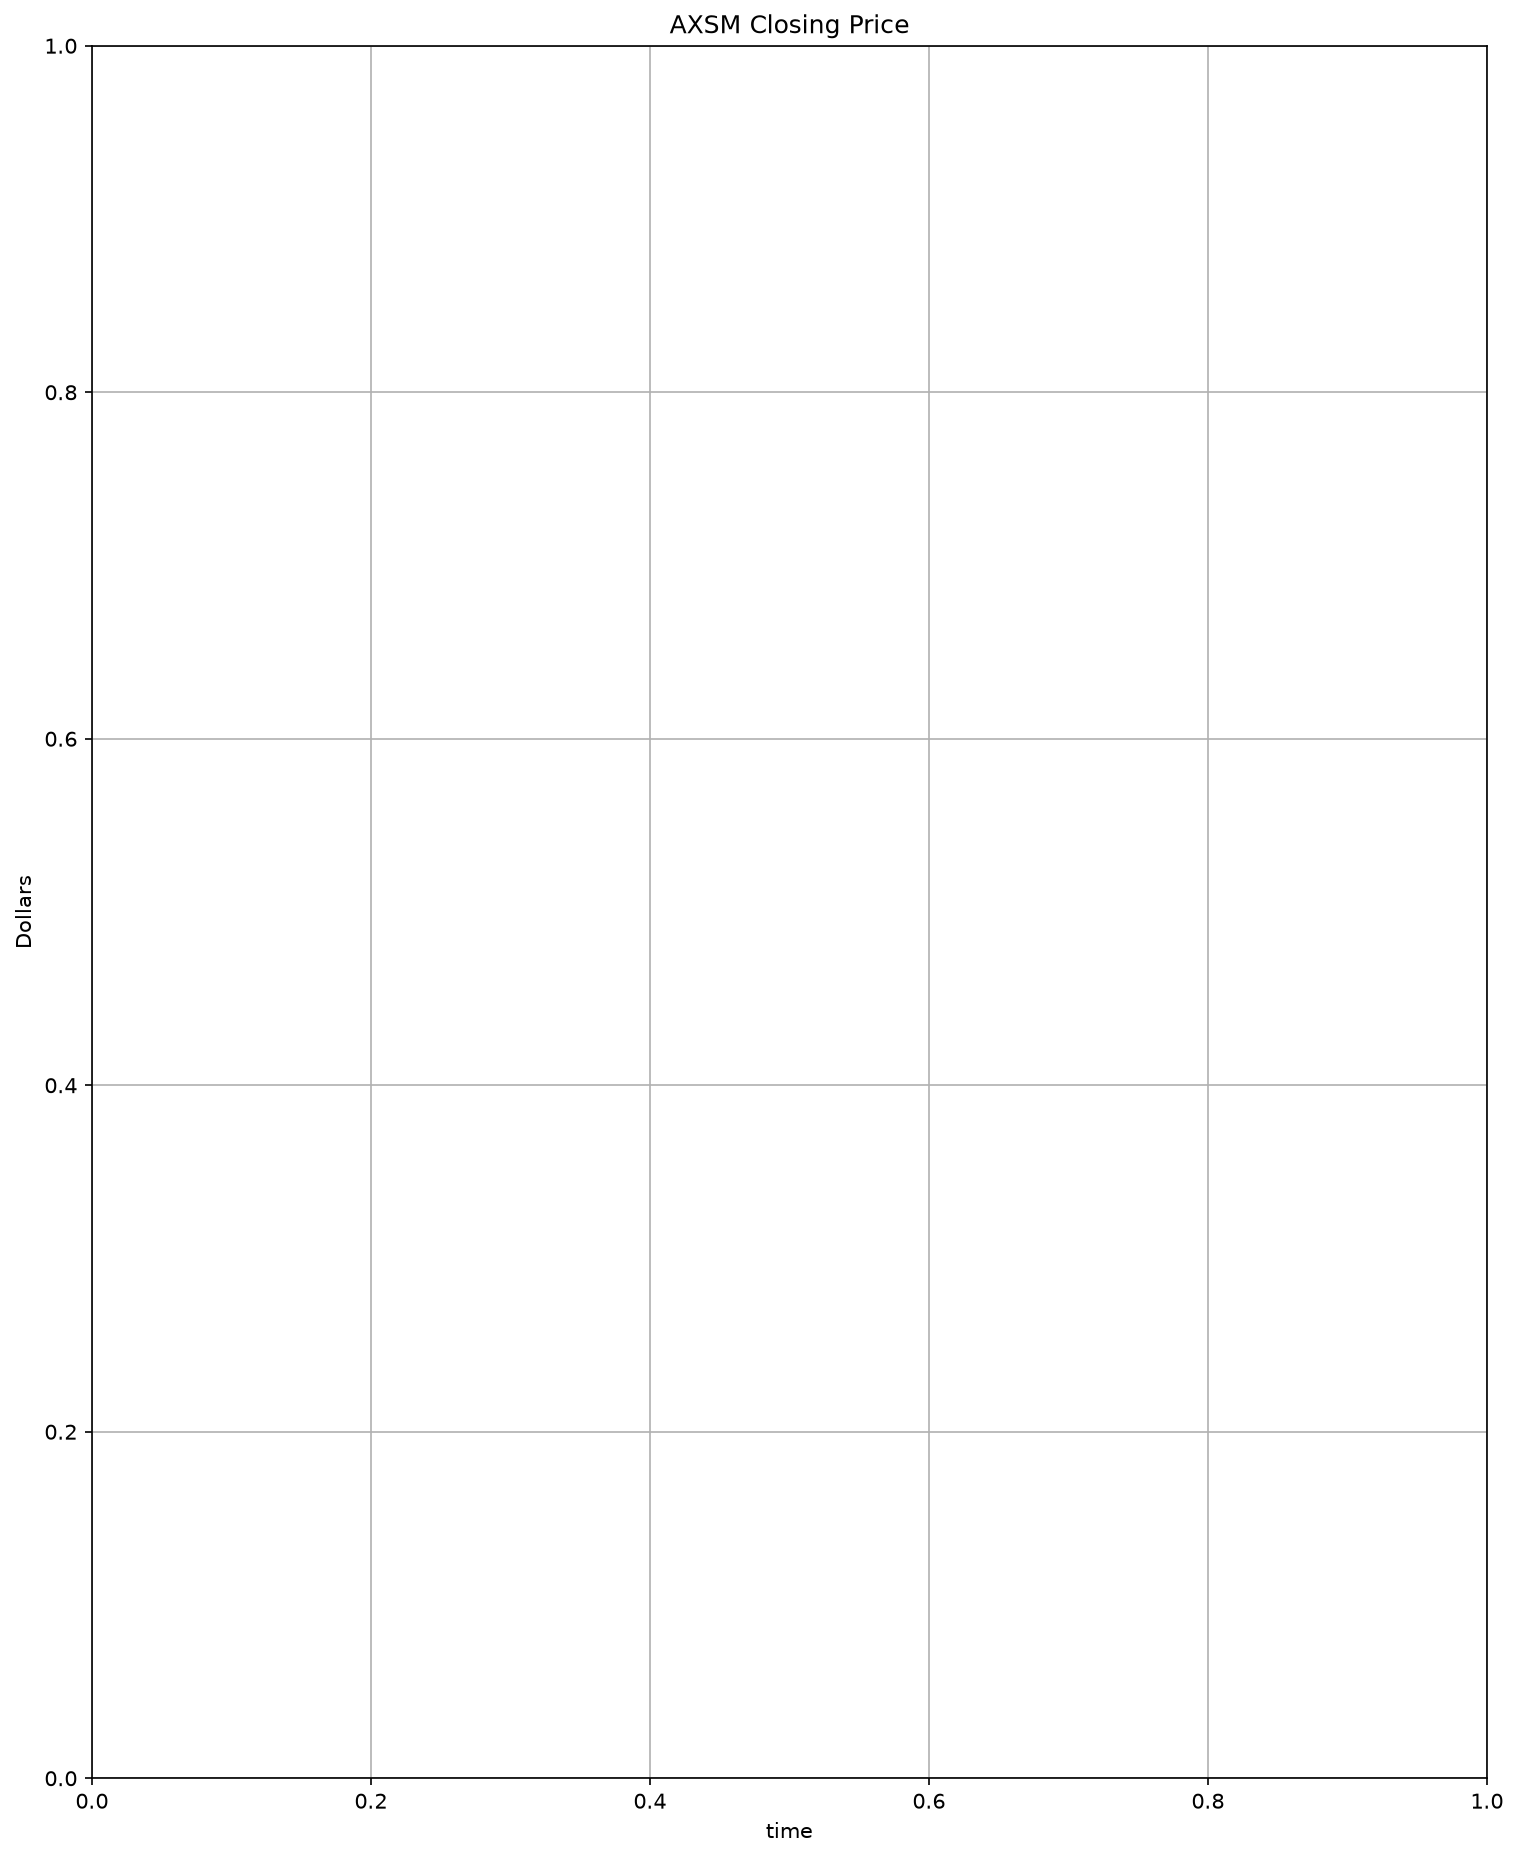
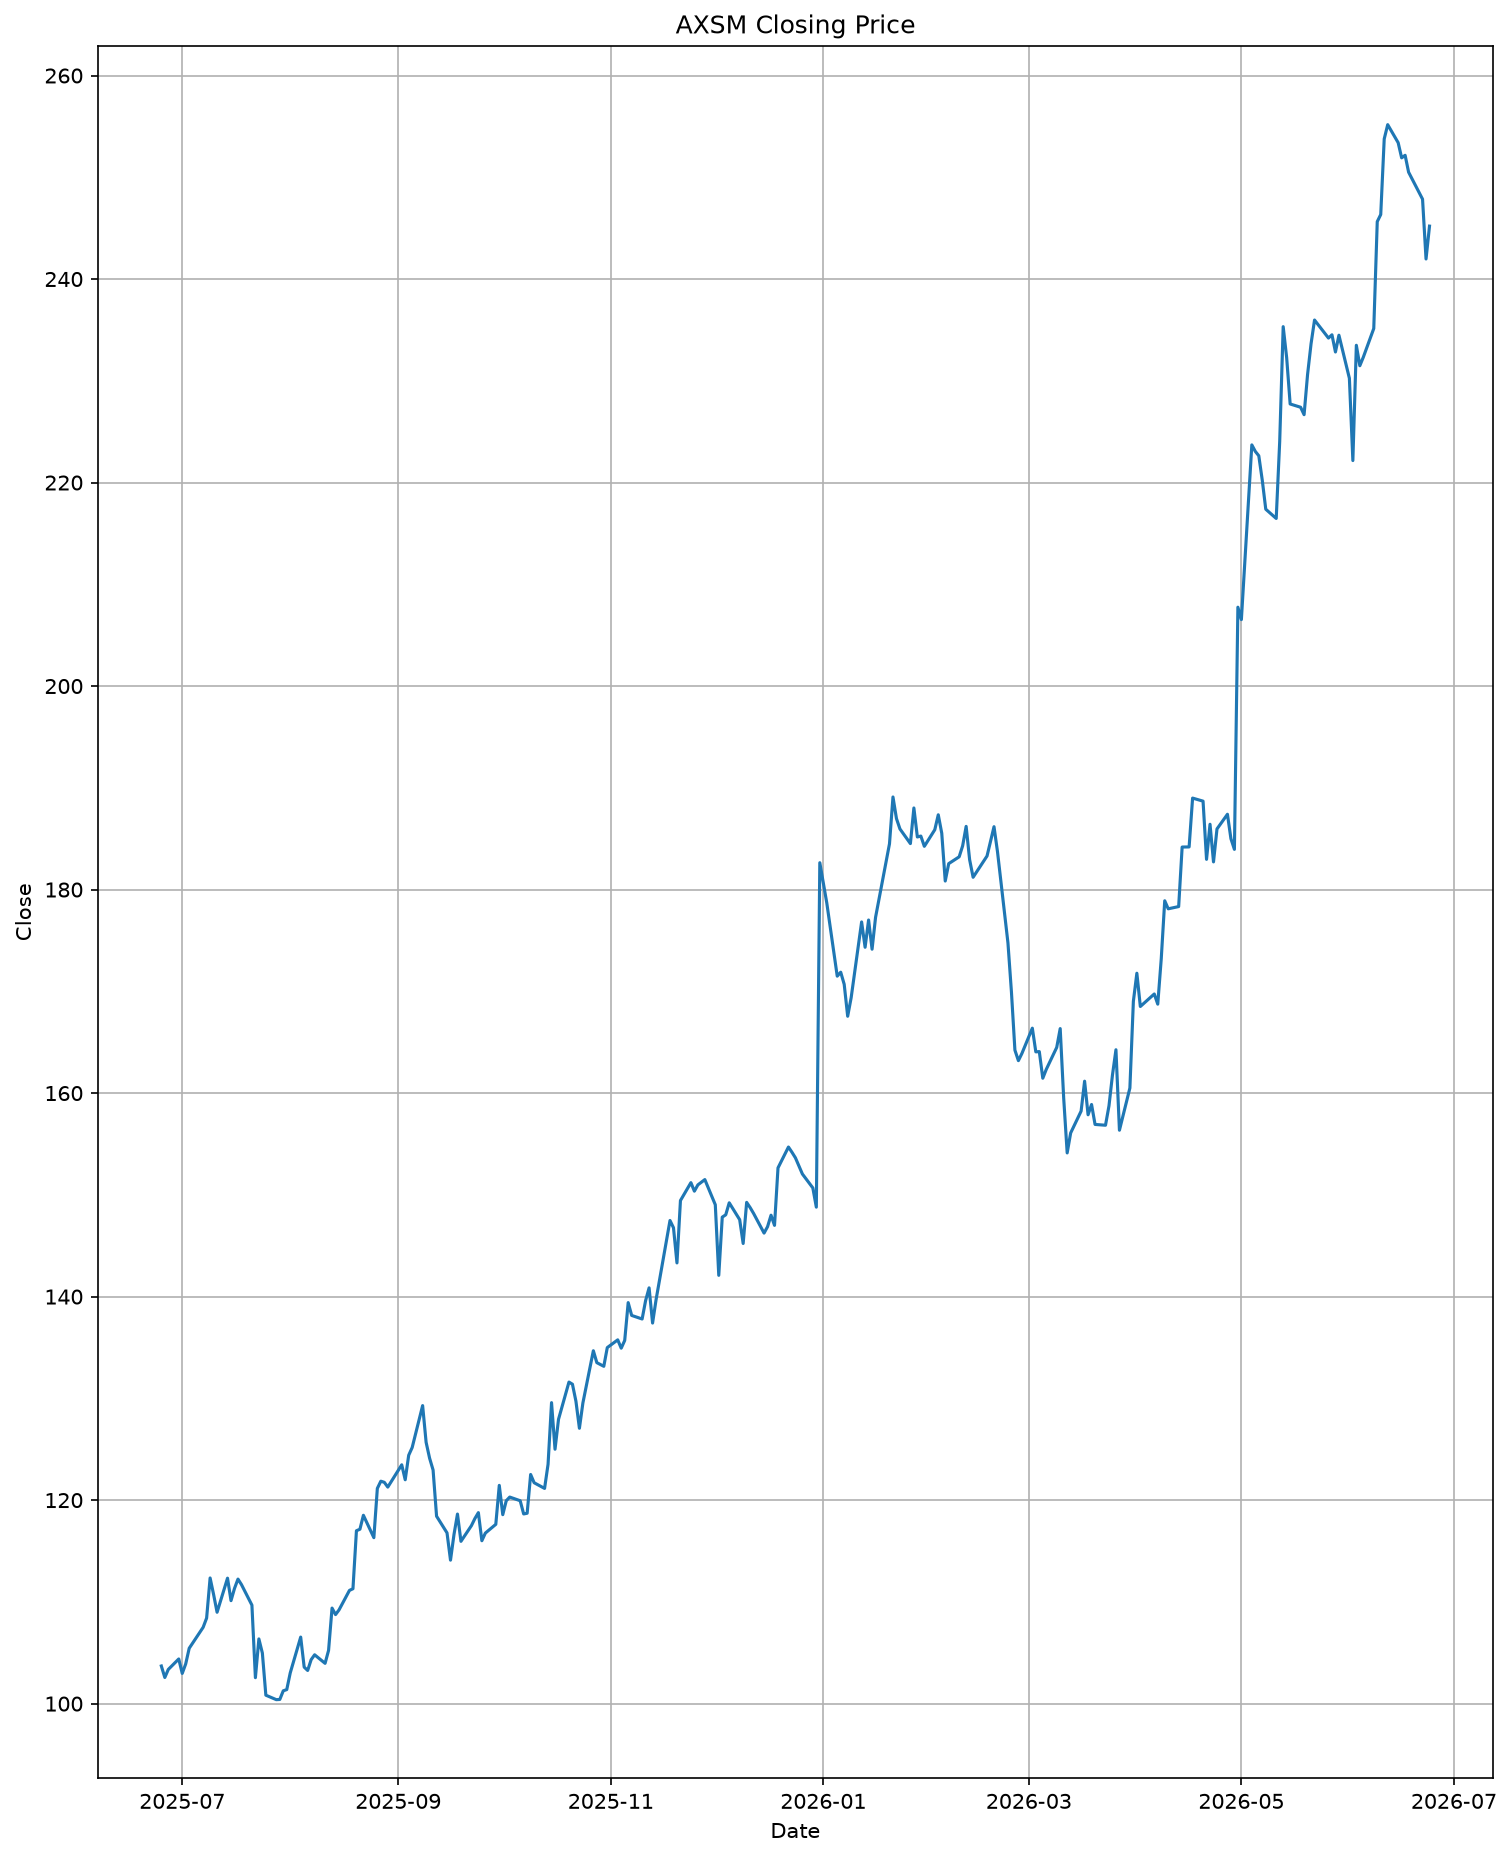
Once More Unto the Breach

diff --git a/main.py b/main.py
@@ -645,7 +645,6 @@ po2.select(
 # %%
 # Pandas conversion of price
 p_px = rv.select("dt", "close", "ret", "vol20", "vol60").toPandas()
-
 # %%
 # Pandas conversion of option
 p_opt = po.select(
@@ -670,18 +669,20 @@ p_vol = dvol.select("dt", "tot_vol", "ma20", "weird_vol").toPandas()
 # %%
 # Closing Price Chart
 os.makedirs("charts", exist_ok=True)
-charts.plotlinegraph("AXSM Closing Price", "charts/02_closing_price.png", "Date", "Close", p_px)
+charts.plotlinegraph(
+    "AXSM Closing Price", "charts/02_closing_price.png", "Date", "Close", p_px
+)
 # %%
 # Histogram
-charts.plothistogram("AXSM Daily Log Returns", "charts/02_returns_histogram.png", "Log Return", "Count", p_px)
-#plt.figure(figsize=(10, 5))
-#plt.hist(p_px["ret"].dropna(), bins=35)
-#plt.title("AXSM Daily Log Returns")
-#plt.xlabel("Log Return")
-#plt.ylabel("Count")
-#plt.grid(True)
-#plt.savefig("charts/02_returns_histogram.png", dpi=150, bbox_inches="tight")
-#plt.show()
+charts.plothistogram("AXSM Daily Log Returns","charts/02_returns_histogram.png","Log Return","Count",p_px,35)
+# plt.figure(figsize=(10, 5))
+# plt.hist(p_px["ret"].dropna(), bins=35)
+# plt.title("AXSM Daily Log Returns")
+# plt.xlabel("Log Return")
+# plt.ylabel("Count")
+# plt.grid(True)
+# plt.savefig("charts/02_returns_histogram.png", dpi=150, bbox_inches="tight")
+# plt.show()
 
 # %%
 # Market vs Model for Calls

diff --git a/graphing/charts.py b/graphing/charts.py
@@ -8,19 +8,21 @@ def plotbody(title, filename, figsize, xlab="time", ylab="Dollars"):
     plt.grid(True)
     plt.title(title)
     plt.show()
-    plt.savefig(filename, dpi=150, bbox_inches="tight")
 
 
 def plotlinegraph(title, filename, xlab, ylab, p_px):
     plotbody(title, filename, (12, 15), xlab=xlab, ylab=ylab)
     plt.plot(p_px["dt"], p_px["close"])
+    plt.savefig(filename, dpi=150, bbox_inches="tight")
 
 
-def plothistogram(title, filename, xlab, ylab, p_px):
+def plothistogram(title, filename, xlab, ylab, p_px, bins):
     plotbody(title, filename, (10, 5), xlab=xlab, ylab=ylab)
-    plt.hist(p_px["ret"].dropna(), bins=35)
+    plt.hist(p_px["ret"].dropna(), bins=bins)
+    plt.savefig(filename, dpi=150, bbox_inches="tight")
 
-'''
+
+"""
 plt.figure(figsize=(12, 5))
 plt.plot(p_px["dt"], p_px["close"])
 plt.title("AXSM Closing Price")
@@ -182,4 +184,4 @@ plt.show()
 # %%
 # Saving outputs
 
-'''
+"""
